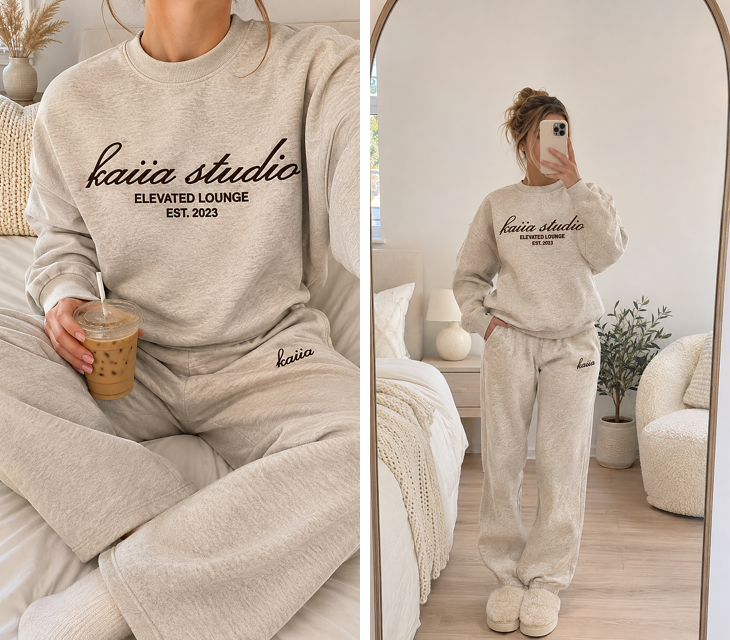
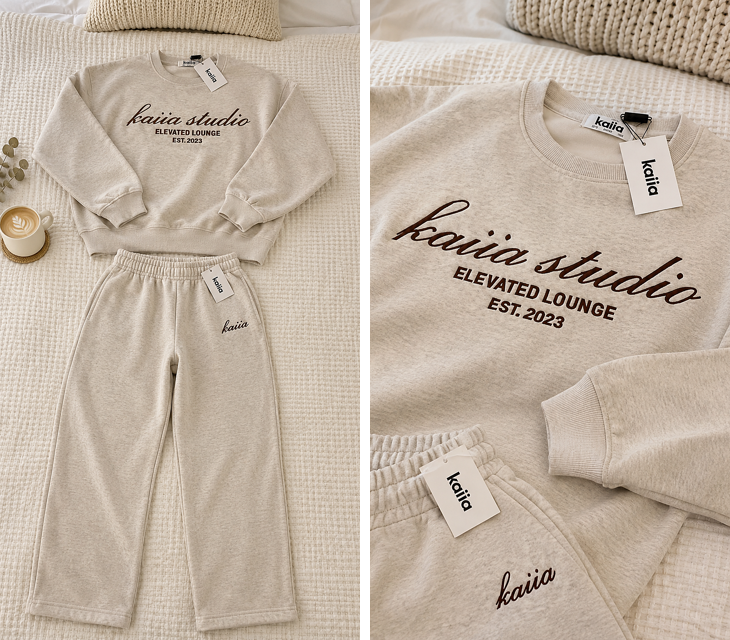
Clothing laid out on a bed, not worn; Kaiia slides redone as bed shots
Claude-Session: https://claude.ai/code/session_01Y5GtWaWrAuZEV1WuXCYGFS

diff --git a/skills/viral-slideshow-factory/SKILL.md b/skills/viral-slideshow-factory/SKILL.md
@@ -18,6 +18,7 @@ This is how the user works now. They send a **TikTok video**: an uploaded video 
 3. **Turn the shots into slides** (write this in `_build/plan.md` before generating anything):
    - **Slide 1 is always a hook slide (the user's rule, 10 Nov).** Its only job is to stop the scroll and make people swipe: a short punchy line (under 10 words) on a striking, relatable photo. In longer slideshows it doesn't have to show the product (a reaction or relatable moment can work); in 2-slide posts it always does (see below). Take the angle from the video's hook (opening line, spoken hook or caption) but write it as a curiosity line that the next slides pay off, e.g. "STOP buying the bad b on its own 😭". The video's own first shot usually becomes slide 2.
    - **Look (the user's rule, 10 Nov): clean, aesthetic, bottom-of-funnel.** Photos are sharp, bright and styled: soft natural light, tidy neutral setting, a few nice props, the product the clear hero and in focus. No grain, no blur, no mess, no "phone camera" effect (make_slides.py no longer adds one; leave `phoneify` off). This overrides the older "casual, messy, a little grain" notes in references/recreate.md.
+   - **Clothing is laid out on a bed, not worn (the user's rule, 10 Nov; replaces the 7 Nov 'worn, never laid flat' rule).** Style it neatly on a made bed with a few aesthetic props, shot from above or at a slight angle, no people. Other products: styled on a bed / surface too unless the original clearly shows it in use.
    - **2-slide posts show the product on both slides.** Slide 1 is still the hook (the line is the hook), but the photo is an aesthetic product shot, not a product-free mood shot. Slide 2 is the second angle (worn / open / in use / close-up of the detail) with the basket CTA.
    - **How many slides (the user's rule, 10 Nov):** short, simple videos (roughly under 15 seconds, one or two shots, one line of on-screen text, no voiceover story, e.g. a product shown with "X have the nicest gift sets") are **exactly 2 slides**: slide 1 the hook, slide 2 the product reveal with the selling line and the basket CTA. Don't pad them out with extra slides. Only videos that tell a longer story (voiceover, several moments such as unboxing, opening doors, using it, a result) get more: one slide per key moment in the video's order, merging shots that show the same thing and dropping filler, usually 4-7.
    - Last slide: the video's payoff plus a soft call to action (finish.py needs one).

diff --git a/skills/viral-slideshow-factory/references/recreate.md b/skills/viral-slideshow-factory/references/recreate.md
@@ -48,7 +48,7 @@ Staged, tidy, product-centred images read as AI ads. Every photo prompt should a
 - a genuine, unedited phone photo a normal person posted: candid, slightly tilted, imperfect framing, mixed home lighting (lamp, phone flash), a little grain;
 - an ordinary lived-in background with some mess (unmade bed, mug, charger, clothes on a chair);
 - a person or hand in shot where it makes sense: mirror selfies with the phone covering the face for clothes, a hand holding the product close to the camera for small items.
-**The product must be clearly visible and in focus** (about a third of the frame): open lids fully, show the actual item, not just its box. Clothing is worn, never laid flat.
+**The product must be clearly visible and in focus** (about a third of the frame): open lids fully, show the actual item, not just its box. Clothing: laid out neatly on a bed, NOT worn (user, 10 Nov; this replaces the old 'worn, never laid flat' rule).
 Never copy the face, hair or room of a model in the listing photo.
 
 ## On-screen text
